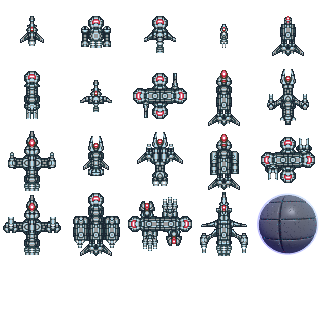
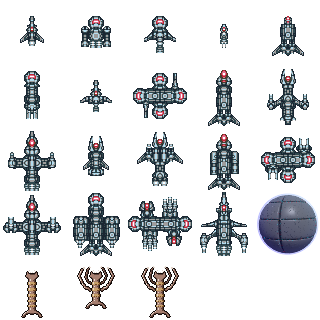
#493 Starts implementation of space monsters.
Initial start with new space race and space ship images.

Changed region(s): [[0.4375, 0.8125, 0.5625, 1.0], [0.2188, 0.8125, 0.375, 0.9688], [0.0625, 0.8438, 0.125, 1.0]]

diff --git a/src/main/java/org/openRealmOfStars/player/SpaceRace/SpaceRace.java b/src/main/java/org/openRealmOfStars/player/SpaceRace/SpaceRace.java
@@ -154,7 +154,15 @@ public enum SpaceRace {
   SMAUGIRIANS(14, "Smaugirians", "Smaugirian",
       "Smaugirians are humanoids that are known for smuggling goods."
       + " Their cargo ships can contain single weapon"
-      + " or privateering modules.");
+      + " or privateering modules."),
+  /**
+   * Humans are about average in everything and space pirates are probably
+   * humans or are just average.
+   */
+  SPACE_MONSTERS(15, "Space Monsters", "Space monsters",
+         "Generic space monsters which are aggressive and try cause\n"
+       + " trouble. No diplomacy with these guys.");
+
 
 
 
@@ -210,6 +218,7 @@ public enum SpaceRace {
     switch (this) {
     case HUMAN:
     case SPACE_PIRATE:
+    case SPACE_MONSTERS:
       return 100;
     case MECHIONS:
       return 50;
@@ -256,6 +265,7 @@ public enum SpaceRace {
         return Attitude.LOGICAL;
       case SPORKS:
       case SPACE_PIRATE:
+      case SPACE_MONSTERS:
         return Attitude.AGGRESSIVE;
       case GREYANS:
         return Attitude.SCIENTIFIC;
@@ -292,6 +302,7 @@ public enum SpaceRace {
     switch (this) {
     case HUMAN:
     case SPACE_PIRATE:
+    case SPACE_MONSTERS:
       return 4;
     case MECHIONS:
       return 8;
@@ -348,6 +359,7 @@ public enum SpaceRace {
       return GuiStatics.IMAGE_SCAURIAN_RACE;
     case HOMARIANS:
       return GuiStatics.IMAGE_HOMARIAN_RACE;
+    case SPACE_MONSTERS: // No diplomacy so image should not matter
     case SPACE_PIRATE:
       return GuiStatics.IMAGE_PRIVATEER_RACE;
     case CHIRALOIDS:
@@ -391,6 +403,7 @@ public enum SpaceRace {
         return start + "resources/images/scaurian_race.png";
       case HOMARIANS:
         return start + "resources/images/homarian_race.png";
+      case SPACE_MONSTERS: // Should not matter
       case SPACE_PIRATE:
         return start + "resources/images/privateer_race.png";
       case CHIRALOIDS:
@@ -436,6 +449,7 @@ public enum SpaceRace {
     switch (this) {
     case HUMAN:
     case SPACE_PIRATE:
+    case SPACE_MONSTERS:
       return 100;
     case MECHIONS:
       return 150;
@@ -476,6 +490,7 @@ public enum SpaceRace {
     switch (this) {
     case HUMAN:
     case SPACE_PIRATE:
+    case SPACE_MONSTERS:
       return 100;
     case MECHIONS:
       return 50;
@@ -516,6 +531,7 @@ public enum SpaceRace {
     switch (this) {
     case HUMAN:
     case SPACE_PIRATE:
+    case SPACE_MONSTERS:
       return 10;
     case MECHIONS:
       return 12;
@@ -556,6 +572,7 @@ public enum SpaceRace {
     switch (this) {
     case HUMAN:
     case SPACE_PIRATE:
+    case SPACE_MONSTERS:
       return 100;
     case MECHIONS:
       return 100;
@@ -596,6 +613,7 @@ public enum SpaceRace {
     switch (this) {
     case HUMAN:
     case SPACE_PIRATE:
+    case SPACE_MONSTERS:
       return 100;
     case MECHIONS:
       return 0;
@@ -636,6 +654,7 @@ public enum SpaceRace {
     switch (this) {
     case HUMAN:
     case SPACE_PIRATE:
+    case SPACE_MONSTERS:
       return 100;
     case MECHIONS:
       return 0;
@@ -676,6 +695,8 @@ public enum SpaceRace {
     switch (this) {
     case HUMAN:
       return PlayerColor.WHITE;
+    case SPACE_MONSTERS:
+      return PlayerColor.RED;
     case SPACE_PIRATE:
       return PlayerColor.BLACK;
     case MECHIONS:
@@ -717,6 +738,8 @@ public enum SpaceRace {
     switch (this) {
     case HUMAN:
       return PlayerColor.ROSE;
+    case SPACE_MONSTERS:
+      return PlayerColor.CORAL;
     case SPACE_PIRATE:
       return PlayerColor.GRAY;
     case MECHIONS:
@@ -758,6 +781,7 @@ public enum SpaceRace {
     switch (this) {
     case HUMAN:
     case SPACE_PIRATE:
+    case SPACE_MONSTERS:
       return 100;
     case MECHIONS:
       return 0;
@@ -798,6 +822,7 @@ public enum SpaceRace {
     switch (this) {
     case HUMAN:
     case SPACE_PIRATE:
+    case SPACE_MONSTERS:
       return 2;
     case MECHIONS:
       return -2;
@@ -843,6 +868,7 @@ public enum SpaceRace {
     switch (this) {
     case HUMAN:
     case SPACE_PIRATE:
+    case SPACE_MONSTERS:
       return 60;
     case MECHIONS:
       return 50;
@@ -883,6 +909,7 @@ public enum SpaceRace {
     switch (this) {
     case HUMAN:
     case SPACE_PIRATE:
+    case SPACE_MONSTERS:
       return 0;
     case MECHIONS:
       return 0;
@@ -923,6 +950,7 @@ public enum SpaceRace {
     switch (this) {
     case HUMAN:
     case SPACE_PIRATE:
+    case SPACE_MONSTERS:
       return 15;
     case MECHIONS:
       return 15;
@@ -963,6 +991,7 @@ public enum SpaceRace {
     switch (this) {
     case HUMAN:
     case SPACE_PIRATE:
+    case SPACE_MONSTERS:
       return 50;
     case MECHIONS:
       return 50;
@@ -1003,6 +1032,7 @@ public enum SpaceRace {
     switch (this) {
     case HUMAN:
     case SPACE_PIRATE:
+    case SPACE_MONSTERS:
       return 3;
     case MECHIONS:
       return 3;
@@ -1044,6 +1074,7 @@ public enum SpaceRace {
     switch (this) {
     case HUMAN:
     case SPACE_PIRATE:
+    case SPACE_MONSTERS:
       return 1;
     case MECHIONS:
       return 1;
@@ -1100,6 +1131,7 @@ public enum SpaceRace {
       return MusicPlayer.INTERPLANETARY_ODYSSEY;
     case HOMARIANS:
       return MusicPlayer.MALLOGA_BALLING;
+    case SPACE_MONSTERS: // No diplomacy so should not matter
     case SPACE_PIRATE:
       return MusicPlayer.SET_FIRE_TO_REALITY;
     case CHIRALOIDS:
@@ -1124,6 +1156,7 @@ public enum SpaceRace {
     switch (this) {
     case HUMAN:
     case SPACE_PIRATE:
+    case SPACE_MONSTERS:
       return true;
     case MECHIONS:
       return false;
@@ -1163,6 +1196,7 @@ public enum SpaceRace {
     switch (this) {
     case HUMAN:
     case SPACE_PIRATE:
+    case SPACE_MONSTERS:
       return false;
     case MECHIONS:
       return true;
@@ -1229,6 +1263,7 @@ public enum SpaceRace {
     switch (this) {
     case HUMAN:
     case SPACE_PIRATE:
+    case SPACE_MONSTERS:
       return 80;
     case MECHIONS:
       // Robots can be always fixed and parts replaced.
@@ -1271,6 +1306,7 @@ public enum SpaceRace {
     switch (this) {
     case HUMAN:
     case SPACE_PIRATE:
+    case SPACE_MONSTERS:
       return SocialSystem.EQUAL;
     case MECHIONS:
       // Mechions cannot have empires or kingdoms.
@@ -1311,6 +1347,7 @@ public enum SpaceRace {
     switch (this) {
     case HUMAN:
       return BridgeCommandType.WARM_WHITE;
+    case SPACE_MONSTERS:
     case SPACE_PIRATE:
       return BridgeCommandType.DARKEST;
     case MECHIONS:
@@ -1355,6 +1392,7 @@ public enum SpaceRace {
     default:
     case HUMAN:
     case SPACE_PIRATE:
+    case SPACE_MONSTERS:
     case MECHIONS:
     case SPORKS:
     case GREYANS:
@@ -1488,7 +1526,7 @@ public enum SpaceRace {
       case ARTIFICALWORLD: return 100;
       }
     }
-    if (this == SPACE_PIRATE) {
+    if (this == SPACE_PIRATE || this == SPACE_MONSTERS) {
       switch (worldType) {
       case SILICONWORLD: return 75;
       case WATERWORLD: return 100;

diff --git a/src/main/java/org/openRealmOfStars/player/ship/ShipImage.java b/src/main/java/org/openRealmOfStars/player/ship/ShipImage.java
@@ -10,7 +10,7 @@ import org.openRealmOfStars.utilities.IOUtilities;
 /**
  *
  * Open Realm of Stars game project
- * Copyright (C) 2016  Tuomo Untinen
+ * Copyright (C) 2016-2018,2021  Tuomo Untinen
  *
  * This program is free software; you can redistribute it and/or
  * modify it under the terms of the GNU General Public License
@@ -132,19 +132,58 @@ public class ShipImage {
   public static final int ARTIFICIAL_PLANET = 19;
 
   /**
+   * Index for space worm
+   */
+  public static final int SPACE_WORM = 20;
+  /**
+   * Index for space kraken
+   */
+  public static final int SPACE_KRAKEN = 21;
+  /**
+   * Index for large space kraken
+   */
+  public static final int LARGE_SPACE_KRAKEN = 22;
+  /**
    * Must be one bigger than last ship
    */
   private static final int NUMBER_OF_IMAGES = 20;
+
+  /**
+   * Number of monster images.
+   */
+  private static final int NUMBER_OF_MONSTER_IMAGES = 3;
 
   /**
    * Initialize ship images
    * @param fileToRead Needs to be inside JAR file
    */
   public ShipImage(final String fileToRead) {
+    loadImages(fileToRead, false);
+  }
+
+  /**
+   * Initialize ship images
+   * @param fileToRead Needs to be inside JAR file
+   * @param monsters Read space monster images if true.
+   */
+  public ShipImage(final String fileToRead, final boolean monsters) {
+    loadImages(fileToRead, monsters);
+  }
+
+  /**
+   * Initialize ship images.
+   * @param fileToRead Needs to be inside JAR file
+   * @param monsters Read space monster images if true.
+   */
+  private void loadImages(final String fileToRead, final boolean monsters) {
     BufferedImage image = IOUtilities
         .loadImage(Icons.class.getResource("/resources/images/" + fileToRead));
-    shipImages = new BufferedImage[NUMBER_OF_IMAGES];
-    smallShipImages = new BufferedImage[NUMBER_OF_IMAGES];
+    int number = NUMBER_OF_IMAGES;
+    if (monsters) {
+      number = number + NUMBER_OF_MONSTER_IMAGES;
+    }
+    shipImages = new BufferedImage[number];
+    smallShipImages = new BufferedImage[number];
     shipImages[SCOUT] = image64x64(image, 0, 0);
     smallShipImages[SCOUT] = scaleTo32x32(shipImages[SCOUT]);
     shipImages[COLONY] = image64x64(image, 1, 0);
@@ -193,8 +232,16 @@ public class ShipImage {
     shipImages[ARTIFICIAL_PLANET] = image64x64(image, 4, 3);
     smallShipImages[ARTIFICIAL_PLANET] = scaleTo32x32(
         shipImages[ARTIFICIAL_PLANET]);
+    if (monsters) {
+      shipImages[SPACE_WORM] = image64x64(image, 0, 4);
+      smallShipImages[SPACE_WORM] = scaleTo32x32(shipImages[SPACE_WORM]);
+      shipImages[SPACE_KRAKEN] = image64x64(image, 1, 4);
+      smallShipImages[SPACE_KRAKEN] = scaleTo32x32(shipImages[SPACE_KRAKEN]);
+      shipImages[LARGE_SPACE_KRAKEN] = image64x64(image, 2, 4);
+      smallShipImages[LARGE_SPACE_KRAKEN] = scaleTo32x32(
+          shipImages[LARGE_SPACE_KRAKEN]);
+    }
   }
-
   /**
    * Capture 64x64 image from bigger one
    * @param image Image where to capture

diff --git a/src/main/java/org/openRealmOfStars/player/ship/ShipImages.java b/src/main/java/org/openRealmOfStars/player/ship/ShipImages.java
@@ -122,7 +122,7 @@ public final class ShipImages {
     teuthidaes = new ShipImage("teuthidaeships.png");
     scaurians = new ShipImage("scaurianships.png");
     homarians = new ShipImage("homarianships.png");
-    spacePirate = new ShipImage("privateerships.png");
+    spacePirate = new ShipImage("privateerships.png", true);
     chiraloids = new ShipImage("chiraloidships.png");
     reborgians = new ShipImage("reborgianships.png");
     lithorians = new ShipImage("lithorianships.png");
@@ -320,6 +320,7 @@ public final class ShipImages {
       return scaurians();
     case HOMARIANS:
       return homarians();
+    case SPACE_MONSTERS:
     case SPACE_PIRATE:
       return spacePirates();
     case CHIRALOIDS:
